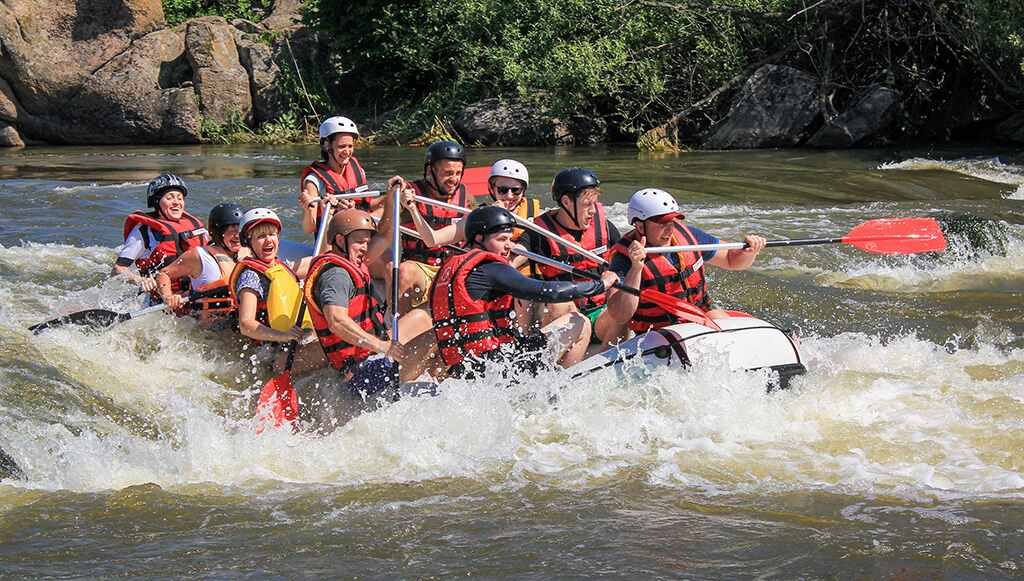
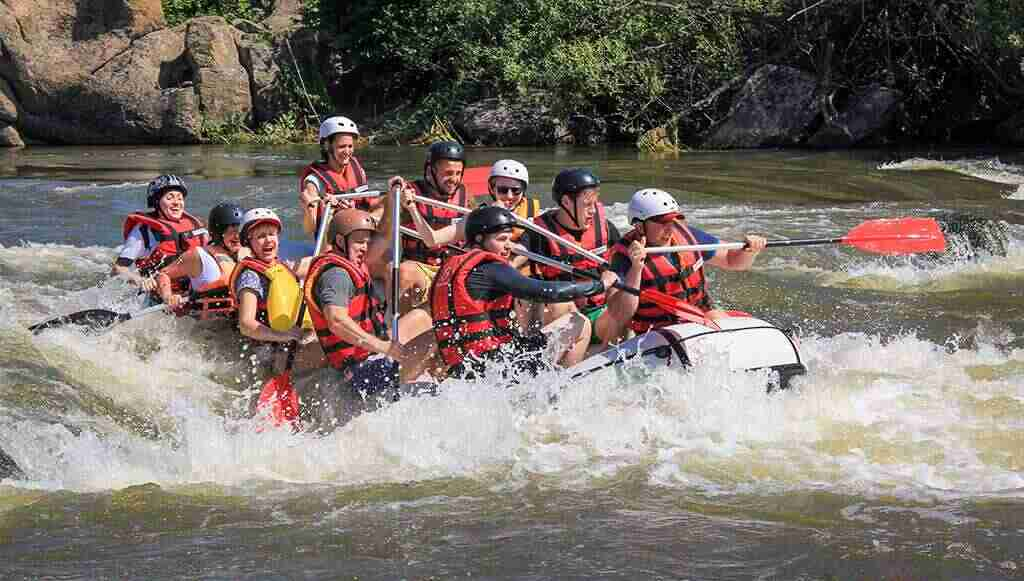
shrinking more images

diff --git a/wwr/about.html b/wwr/about.html
@@ -86,7 +86,7 @@
             <a href="https://www.youtube.com/">
                 <img src="images/youtube.png" alt="YouTube"></a>
             <a href="https://www.instagram.com/">
-                <img src="images/instagram.png" alt="Instagram"></a>
+                <img src="images/instagram.jpg" alt="Instagram"></a>
             <a href="https://www.facebook.com/">
                 <img src="images/facebook.png" alt="Facebook"></a>
         </aside>
